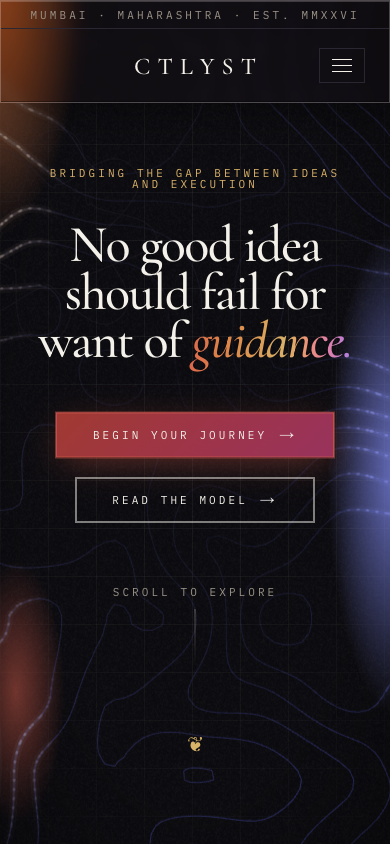
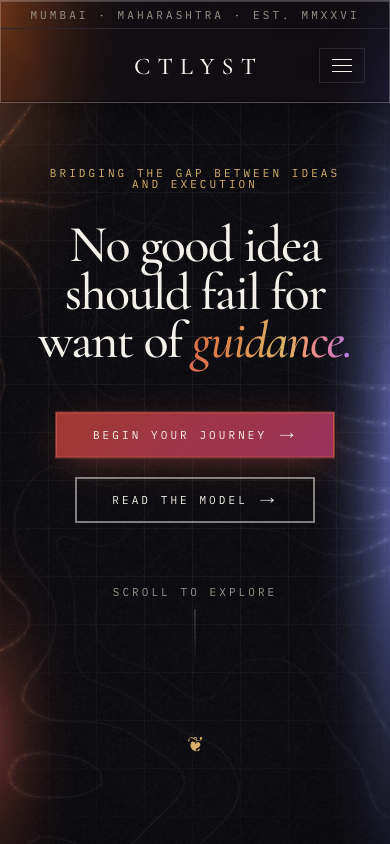
Blend the poles in, and stop the colour travelling
The blooms read as ovals because they were two-stop radials: all the alpha
spent on one ramp, leaving a rim. They now share a seven-stop taper that gives
up its last few percent across the outer half of the radius, and they are
anchored past the viewport edge so no far arc comes back on screen. Extents
came down and peaks went up to keep the tails out of the middle of the frame.

The lit contours also had the wrong colour on the right: the stroke gradient
resolved in the field's own user space, which is inside the panning group, so
the ramp travelled with the contours — ember filaments under a violet glow. One
masked layer per colour now pins it to the screen. That doubles the hot
geometry, paid for by dropping the pointer bloom to its core pass: 32,320
segments a frame against the 57,216 that was actually lagging.

Also corrects a Scars entry from the last commit. The blank pages that killed
two compositor attempts were Fast Refresh reverting the entrance timeline, not
a compositing failure. The reverts were right for other reasons; the reason
recorded was wrong.

Claude-Session: https://claude.ai/code/session_01MvrFiEam1BA8n8oi2rAs78

diff --git a/lib/atmosphere.tsx b/lib/atmosphere.tsx
@@ -48,13 +48,65 @@ const GLOW = [
   { w: 1.6, o: 0.95, dash: "2 9" },
 ] as const;
 
-/** Where the field is allowed to light up. Everywhere else it stays dark
- *  bronze — the page is near-black, and the colour is three localised blooms
- *  (ember top-left, ember low-left, violet right) rather than a wash. */
-const HOT_ZONES =
-  "radial-gradient(ellipse 26% 50% at -1% 10%, #000 0%, rgb(0 0 0 / 0.8) 30%, transparent 72%)," +
-  "radial-gradient(ellipse 15% 24% at 4% 84%, #000 0%, rgb(0 0 0 / 0.6) 32%, transparent 74%)," +
-  "radial-gradient(ellipse 21% 42% at 101% 56%, #000 0%, rgb(0 0 0 / 0.75) 32%, transparent 74%)";
+/**
+ * The falloff every bloom on this page shares.
+ *
+ * `colour, transparent 70%` — two stops — spends its entire alpha over one
+ * short ramp, and the result is a pasted-on oval with a rim you can trace with
+ * a finger. Atmosphere wants the opposite distribution: most of the intensity
+ * inside the first fifth of the radius, then the last few percent given up
+ * slowly across the outer half, where there is no gradient step large enough
+ * for the eye to catch. Seven stops is what it takes; five still shows a rim
+ * on an 8-bit display.
+ */
+const TAPER = [
+  [0, 1], [0.18, 0.74], [0.36, 0.46], [0.55, 0.24], [0.74, 0.09], [0.88, 0.03], [1, 0],
+] as const;
+
+/**
+ * A colour pole. `extent` is the ellipse's own `<size> at <position>`.
+ *
+ * Anchor poles PAST the viewport edge. A pole centred on screen shows its far
+ * arc, and a visible arc is what makes a wash read as a spot no matter how
+ * soft the falloff is — the eye finds the curve before it finds the edge.
+ */
+const pole = (extent: string, colour: string, peak: number) =>
+  `radial-gradient(ellipse ${extent}, ` +
+  TAPER.map(([at, a]) =>
+    `color-mix(in oklch, ${colour} ${(peak * a).toFixed(2)}%, transparent) ${(at * 100).toFixed(0)}%`,
+  ).join(", ") + ")";
+
+/** The same falloff as a mask: where the contour field is allowed to light up. */
+const zone = (extent: string, peak: number) =>
+  `radial-gradient(ellipse ${extent}, ` +
+  TAPER.map(([at, a]) => `rgb(0 0 0 / ${(peak * a).toFixed(3)}) ${(at * 100).toFixed(0)}%`).join(", ") + ")";
+
+const EMBER = "color-mix(in oklch, var(--color-crimson), var(--color-gold) 34%)";
+
+/**
+ * Where the field lights up. Everywhere else it stays dark — the page is
+ * near-black and the colour is three localised blooms, not a wash.
+ *
+ * Split warm from cool because the lit colour is now flat per layer. It used to
+ * be one gradient across the field, which could not survive the pan: an SVG
+ * gradient resolves in the user space of the element it paints, that space is
+ * inside the panning group, so the ramp TRAVELLED WITH THE CONTOURS. The right
+ * edge was rendering ember filaments under a violet glow. Two masked layers pin
+ * the colour to the screen, where the design puts it.
+ */
+const EMBER_ZONES = [
+  zone("32% 56% at -5% 8%", 0.95),
+  zone("21% 30% at -3% 86%", 0.7),
+].join(",");
+const VIOLET_ZONE = zone("23% 64% at 104% 55%", 0.92);
+
+/** B3 · the mesh. Same three places as the hot zones, so the glow and the lit
+ *  contours are one event rather than two things that happen to overlap. */
+const MESH = [
+  pole("40% 52% at -6% -10%", EMBER, 95),
+  pole("24% 28% at -4% 88%", "var(--color-crimson)", 55),
+  pole("25% 72% at 105% 54%", "var(--color-indigo)", 92),
+].join(",");
 
 /** Contour field, in its own user-unit box. Built once on the client (~8ms). */
 const TOPO_BOX = { w: 2200, h: 1500 };
@@ -63,6 +115,33 @@ const WASH: Record<string, string> = {
   "/why": "var(--color-crimson)",
   "/schemes": "var(--color-gold)",
 };
+
+/** One masked, panning copy of the lit contour field. */
+function HotField({ mask, stroke, passes = GLOW }: {
+  mask: string;
+  stroke: string;
+  passes?: readonly { w: number; o: number; dash?: string }[];
+}) {
+  return (
+    <div className="absolute inset-0" style={{ WebkitMaskImage: mask, maskImage: mask }}>
+      <svg
+        viewBox={`0 0 ${TOPO_BOX.w} ${TOPO_BOX.h}`}
+        preserveAspectRatio="xMidYMid slice"
+        className="h-full w-full"
+      >
+        <g data-topo-pan style={{ willChange: "transform" }}>
+          {passes.map((pass) => (
+            <g key={pass.w} fill="none" stroke={stroke} strokeWidth={pass.w} opacity={pass.o}
+               strokeDasharray={pass.dash} strokeLinecap={pass.dash ? "round" : undefined}>
+              <use href="#topo-lines" />
+              <use href="#topo-lines" x={TOPO_BOX.w} />
+            </g>
+          ))}
+        </g>
+      </svg>
+    </div>
+  );
+}
 
 function ShapeArt({ p }: { p: Placement }) {
   if (p.shape === "mark" || p.shape === "fleuron") {
@@ -297,12 +376,7 @@ export function Atmosphere() {
       <div
         className="absolute inset-0"
         style={{
-          background:
-            // Ember, not maroon: crimson alone goes brick under the grain, so the corner
-            // pole is pulled a third of the way to gold.
-            "radial-gradient(ellipse 34% 46% at -2% -4%, color-mix(in oklch, color-mix(in oklch, var(--color-crimson), var(--color-gold) 34%) 95%, transparent), transparent 70%)," +
-            "radial-gradient(ellipse 17% 21% at 4% 82%, color-mix(in oklch, var(--color-crimson) 55%, transparent), transparent 74%)," +
-            "radial-gradient(ellipse 25% 40% at 102% 56%, color-mix(in oklch, var(--color-indigo) 88%, transparent), transparent 72%)",
+          background: MESH,
         }}
       />
 
@@ -342,21 +416,6 @@ export function Atmosphere() {
         }}
       >
         <defs>
-          {/* Bright ramp — only the hot zones and the pointer bloom use it. */}
-          <linearGradient id="topo-ink" gradientUnits="userSpaceOnUse"
-                          x1="0" y1="0" x2={TOPO_BOX.w} y2={TOPO_BOX.h * 0.55}>
-            <stop offset="0" stopColor="var(--color-crimson)" />
-            <stop offset="0.45" stopColor="var(--color-gold)" />
-            <stop offset="1" stopColor="var(--color-indigo)" />
-          </linearGradient>
-          {/* Unlit terrain: warm on one flank, cool on the other, but barely
-              above the ground either way. */}
-          <linearGradient id="topo-dim" gradientUnits="userSpaceOnUse"
-                          x1="0" y1="0" x2={TOPO_BOX.w} y2={TOPO_BOX.h * 0.55}>
-            <stop offset="0" stopColor="var(--color-crimson-deep)" />
-            <stop offset="0.5" stopColor="var(--color-rule)" />
-            <stop offset="1" stopColor="var(--color-indigo-deep)" />
-          </linearGradient>
           {/* Geometry only — no stroke, so every consumer colours it itself.
               Rendering it per consumer doubled 3.5k segments of DOM and put a
               50ms task back on the load path, so it is <use>d instead. */}
@@ -370,7 +429,9 @@ export function Atmosphere() {
           </g>
         </defs>
         <g data-topo-pan style={{ willChange: "transform" }}>
-          <g stroke="url(#topo-dim)" strokeWidth={1.1} opacity={0.55}>
+          {/* Flat, not a ramp: at this darkness a gradient is invisible, and a
+              gradient here would travel with the pan for nothing. */}
+          <g stroke="var(--color-rule)" strokeWidth={1.1} opacity={0.6}>
             <use href="#topo-lines" />
             {/* Off the viewBox, and clipped by the SVG, until the pan brings it in. */}
             <use href="#topo-lines" x={TOPO_BOX.w} />
@@ -378,36 +439,21 @@ export function Atmosphere() {
         </g>
       </svg>
 
-      {/* C2b-hot · the same contours, lit. Masked to three zones in CSS rather
-          than with an SVG mask so the mask is a compositor input, not something
-          the 10k-segment field has to be re-rasterised through on every pan.
+      {/* C2b-hot · the same contours, lit. Masked in CSS rather than with an SVG
+          mask so the mask is a compositor input, not something the field has to
+          be re-rasterised through on every pan.
 
-          Four strokes per contour instead of one: a wide faint halo, a mid, a
-          dashed hairline core, and a sparse round-cap dash that lands as dust.
-          That is a bloom without a filter — `filter: blur()` over a fullscreen
-          layer re-rasterises on every pan, where more strokes are just more
-          geometry in the same raster. */}
-      <div
-        className="absolute inset-0"
-        style={{ WebkitMaskImage: HOT_ZONES, maskImage: HOT_ZONES }}
-      >
-        <svg
-          viewBox={`0 0 ${TOPO_BOX.w} ${TOPO_BOX.h}`}
-          preserveAspectRatio="xMidYMid slice"
-          className="h-full w-full"
-        >
-          <g data-topo-pan style={{ willChange: "transform" }}>
-            {GLOW.map((pass) => (
-              <g key={pass.w} stroke="url(#topo-ink)" strokeWidth={pass.w} opacity={pass.o}
-                 strokeDasharray={"dash" in pass ? pass.dash : undefined}
-                 strokeLinecap={"dash" in pass ? "round" : undefined}>
-                <use href="#topo-lines" />
-                <use href="#topo-lines" x={TOPO_BOX.w} />
-              </g>
-            ))}
-          </g>
-        </svg>
-      </div>
+          Three strokes per contour: a wide faint halo, a mid, and a dashed
+          hairline core. That is a bloom without a filter — `filter: blur()`
+          over a fullscreen layer re-rasterises on every pan, where more strokes
+          are just more geometry in the same raster.
+
+          One layer per colour, because the colour has to stay where the design
+          put it while the geometry underneath it keeps moving. */}
+      <HotField mask={EMBER_ZONES} stroke={EMBER} />
+      {/* Indigo is a darker hue than the ember mix, so at a shared opacity it
+          reads as the weaker of the two. Lifted toward white to match it. */}
+      <HotField mask={VIOLET_ZONE} stroke="color-mix(in oklch, var(--color-indigo), white 26%)" />
 
       {/* C2c · the same field again, brighter, seen through a disc that follows
           the pointer: the contours near the cursor light up as if the map were
@@ -432,22 +478,10 @@ export function Atmosphere() {
         }}
       >
         <div ref={bloomInner} className="absolute left-0 top-0 h-screen w-screen" style={{ willChange: "transform" }}>
-          <svg
-            viewBox={`0 0 ${TOPO_BOX.w} ${TOPO_BOX.h}`}
-            preserveAspectRatio="xMidYMid slice"
-            className="h-full w-full"
-          >
-            <g data-topo-pan style={{ willChange: "transform" }}>
-              {GLOW.slice(1).map((pass) => (
-                <g key={pass.w} stroke="url(#topo-ink)" strokeWidth={pass.w} opacity={pass.o}
-                   strokeDasharray={"dash" in pass ? pass.dash : undefined}
-                   strokeLinecap={"dash" in pass ? "round" : undefined}>
-                  <use href="#topo-lines" />
-                  <use href="#topo-lines" x={TOPO_BOX.w} />
-                </g>
-              ))}
-            </g>
-          </svg>
+          {/* The core pass only. Splitting the hot layer by colour doubled its
+              geometry, and this is where it is paid back: under a 520px disc a
+              halo is not what you notice, the beading is. */}
+          <HotField mask="linear-gradient(#000, #000)" stroke={EMBER} passes={GLOW.slice(2)} />
         </div>
       </div>
 

diff --git a/PROGRESS.md b/PROGRESS.md
@@ -975,12 +975,28 @@ Things that broke and how they were fixed. Do not repeat these.
   hidden, because the cost is on the raster thread. Count the geometry instead.
   Fix: coarser field (132×92×12 → 100×70×9) and one fewer glow pass → 24,240/frame,
   8,080 dashed. Below the 42,912 the page did before the glow work.
-- **Do not try to promote the pan to the compositor by restructuring the SVG layers.**
-  Tried twice: (a) `overflow: visible` on the svg with the pan moved to a wrapping div,
-  (b) a double-width viewBox in a 200%-wide panning div. BOTH made the whole ambient
-  stack composite above `main` — the page rendered as background only, with every
-  section still `opacity: 1` and in layout, and zero console errors. Variant (b) also
-  stopped `#topo-lines` resolving when its `<defs>` moved to a `h-0 w-0` svg. Diagnosis
-  that works: `display:none` the ambient root and screenshot — if the content appears,
-  it is a compositing problem, not a paint or opacity one. If the pan ever has to get
-  off the paint path, do it by making the field cheap enough not to need it.
+- **A blank page after editing `atmosphere.tsx` is Fast Refresh, not your change.**
+  Editing the file re-runs the gsap context; the split-reveal entrance timeline reverts
+  to its initial state — text translated out of its `.sl-line-mask` — and does not
+  replay, so the page renders as background only with every section still `opacity: 1`
+  and in layout and zero console errors. `browser_navigate` to the same URL is not
+  enough; it needs `location.reload()`.
+  This cost two wrong diagnoses in one session: two attempts to move the contour pan
+  onto the compositor were reverted as "they composite the ambient stack above main",
+  which they never did. **Before blaming a layer, `document.elementsFromPoint` at the
+  headline.** If the top hit is `sl-line-mask`, the entrance never ran and the render
+  is fine. If it is an ambient layer, then it is a compositing problem.
+- **An SVG gradient cannot colour a field that pans.** The lit contours were stroked
+  with `url(#topo-ink)`, `gradientUnits="userSpaceOnUse"`. That user space is inside
+  the panning `<g>`, so the ramp travelled with the contours: the right edge rendered
+  ember filaments under a violet glow, and the second copy — the one the wrap brings
+  in — fell past the last stop and arrived uniformly indigo. No fix inside the gradient
+  works; `spreadMethod` repeats or reflects along the gradient vector, which a
+  horizontal pan does not align to. Fix: one masked layer per colour, flat stroke,
+  colour pinned to the screen by the mask.
+- **A two-stop radial reads as a pasted-on spot, however soft the second stop is.**
+  `colour, transparent 70%` spends its whole alpha on one ramp and leaves a rim you
+  can trace. What removes the edge is the distribution: peak inside the first fifth of
+  the radius, then the last few percent given up across the outer half — see `TAPER`,
+  seven stops. Five still banded. Anchor poles past the viewport edge as well; a
+  visible far arc reads as a spot no matter how good the falloff is.
